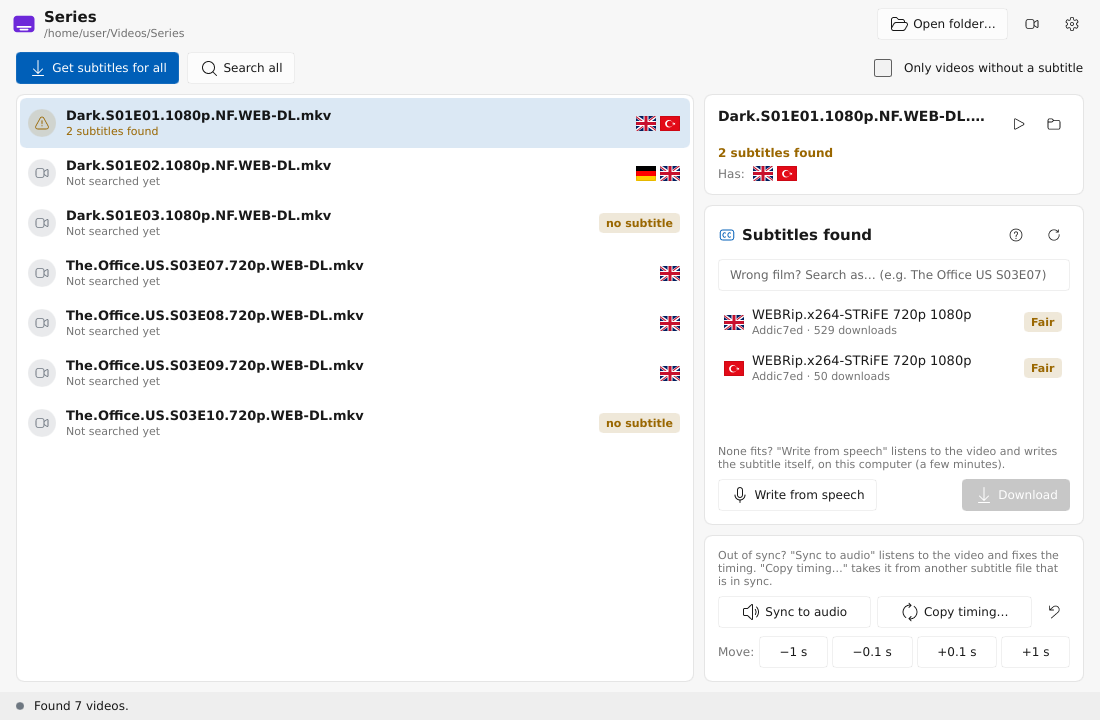
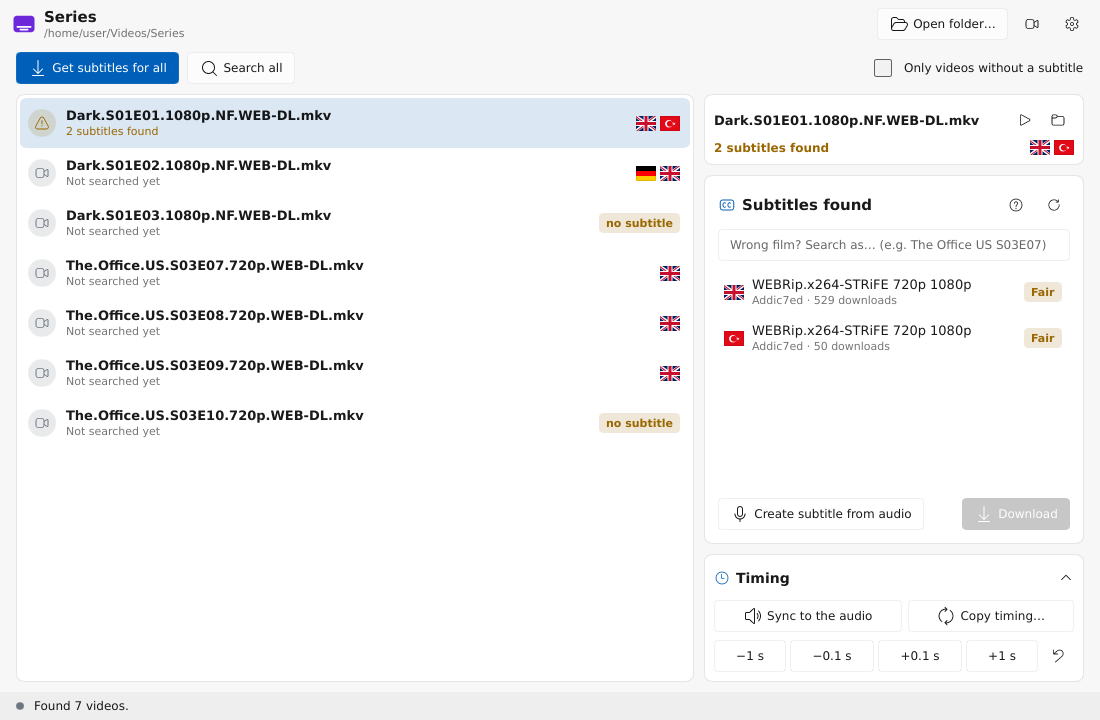
Tooltips on the library buttons, "Create subtitle from audio", foldable Timing card, compact video header

diff --git a/README.tr.md b/README.tr.md
@@ -43,8 +43,8 @@ güncellemeden sonra neyin yeni olduğunu gösterir.
    yapılmış), **Good**, **Fair** ya da **Weak** diye işaretlidir. **Search as…** yanlış
    adlandırılmış bir dosyayı başka bir adla arar.
 3. Altyazı `Film.mkv`'nin yanına `Film.tr.srt` olarak kaydedilir; oynatıcılar kendiliğinden
-   yükler. Hemen sese senkronlanır. Yerine geçtiği dosya saklanır: *Sync to audio*'nun yanındaki
-   geri alma düğmesi onu geri koyar.
+   yükler. Hemen sese senkronlanır. Yerine geçtiği dosya saklanır: *Timing* altındaki geri alma
+   düğmesi onu geri koyar.
 
 ![Senkron](docs/img/sync.png)
 
@@ -53,7 +53,7 @@ Dahası:
 - **Hızlı senkron**: SubMagician önce filmin her yerinden birkaç kısa parçayı aynı anda dinler;
   yanlış kayma ya da kare hızı için bu yeter (bir iki saniye). Sahne kesilmiş ya da eklenmişse
   bütün sesi okur, her işlemci çekirdeğine bir parça. Duyduğunu hatırlar, aynı videoyu yeniden
-  senkronlamak anında olur. *Sync to audio* her altyazıda çalışır; *Copy timing…* senkron olan
+  senkronlamak anında olur. *Sync to the audio* her altyazıda çalışır; *Copy timing…* senkron olan
   başka bir altyazıyı kullanır; ±0,1 s / ±1 s elle kaydırır.
 - **Videonun içindeki altyazılar** (MKV/MP4 parçaları): **Use the subtitle inside** senin
   dilindekini dosya olarak kaydeder ve sese senkronlar. Resim parçaları (Blu-ray, DVD) metin
@@ -62,7 +62,7 @@ Dahası:
   ilerlemesini gösterir, **Stop** hemen bitirir.
 - **Açık klasörü izleme** (Settings → Library): klasöre gelen yeni videolar kopyalanması bitince
   altyazısını kendisi alır. **Only videos without a subtitle** işi biten videoları gizler.
-- **Write from speech** (Whisper, bu bilgisayarda): hiçbir kaynakta altyazı yoksa konuşmadan yazılır.
+- **Create subtitle from audio** (Whisper, bu bilgisayarda): hiçbir kaynakta altyazı yoksa konuşmadan yazılır.
   İlk seferde konuşma modelini indirmeyi önerir; Settings → Speech başka bir model seçer,
   otomatik de çalışabilir. İngilizceye her dilden
   çevirir; diğer diller konuşulduğu gibi yazılır.

diff --git a/README.md b/README.md
@@ -42,8 +42,8 @@ out and shows what is new after the update.
    file), **Good**, **Fair** or **Weak**. **Search as…** finds a wrongly named file under
    another name.
 3. The subtitle is saved as `Movie.tr.srt` next to `Movie.mkv`; players load it on their own.
-   It is synced to the audio right away. The file it replaced is kept: the undo button next to
-   *Sync to audio* puts it back.
+   It is synced to the audio right away. The file it replaced is kept: the undo button under
+   *Timing* puts it back.
 
 ![Sync](docs/img/sync.png)
 
@@ -52,7 +52,7 @@ More:
 - **Fast sync**: SubMagician first listens to a few short parts across the film at once, which
   is enough for a wrong offset or frame rate (a second or two). Only when scenes were cut or
   added does it read the whole audio, one piece per CPU core. What it heard is remembered, so
-  syncing the same video again is instant. *Sync to audio* works on any subtitle; *Copy
+  syncing the same video again is instant. *Sync to the audio* works on any subtitle; *Copy
   timing…* uses another subtitle that is in sync; ±0.1 s / ±1 s nudge it by hand.
 - **Subtitles inside the video** (MKV/MP4 tracks): **Use the subtitle inside** saves the one in
   your language as a file and syncs it to the audio. Picture tracks (Blu-ray, DVD) cannot be
@@ -62,7 +62,7 @@ More:
 - **Watch the open folder** (Settings → Library): new videos in the folder get their subtitle
   on their own, once they have finished copying. **Only videos without a subtitle** hides the
   ones that are done.
-- **Write from speech** (Whisper, on this computer): when no source has a subtitle, one is written from
+- **Create subtitle from audio** (Whisper, on this computer): when no source has a subtitle, one is written from
   the speech. The first time it offers to download the speech model; Settings → Speech picks
   another one, and it can also run automatically.
   Into English it translates any language; other languages are written as spoken.

diff --git a/changelog/en.md b/changelog/en.md
@@ -11,9 +11,10 @@ Release notes, newest first. The app shows the sections since the version that r
   player plugins, subfolders and the folder watch moved there.
 - Subtitle languages are shown as flags, and the found subtitles say how well they fit:
   Exact, Good, Fair or Weak (the ? button explains them).
-- "From audio" is now "Write from speech" and "To a subtitle…" is "Copy timing…", each with a
-  short explanation next to it. Writing from speech asks to download the speech model right
-  there instead of sending you to Settings.
+- Clearer buttons with tooltips: "From audio" is now "Create subtitle from audio", "To a
+  subtitle…" is "Copy timing…". The timing tools fold away under "Timing", so the found
+  subtitles get more room. Creating from audio asks to download the speech model right there
+  instead of sending you to Settings.
 - If a background task crashes, SubMagician says so and offers to report it by GitHub or e-mail.
 - Right-click menu: choose its entries in Settings: open in SubMagician, get subtitles in your
   languages, or sync the subtitle to the audio.

diff --git a/crates/app/ui/icons/README.md b/crates/app/ui/icons/README.md
@@ -9,5 +9,5 @@ info → info, warning → warning, error → error_circle, plug → plug_connec
 update → arrow_circle_up, captions → closed_caption, speaker → speaker_2, clock → clock,
 globe → globe, person → person, logs → document_text, mail → mail, open → open,
 dismiss → dismiss, delete → delete, filter → filter, heart → heart, code → code,
-done → checkmark_circle (filled), back → arrow_left, more → more_horizontal,
-sad → emoji_sad, question → question_circle.
+done → checkmark_circle (filled), back → arrow_left, sad → emoji_sad,
+question → question_circle, chevron-down / chevron-up → chevron_down / chevron_up.

diff --git a/docs/DECISIONS.md b/docs/DECISIONS.md
@@ -179,3 +179,6 @@ Numbered, newest last. Each: what, and why.
 55. **Right-click menu entries are chosen in Settings** (open, get subtitles, sync to audio).
     "Get" and "sync" open the window with the folder or video (`--get` / `--sync`) and start the
     work there, so progress and errors are visible; no hidden background runs.
+56. **Tooltips with Slint's built-in `Tooltip`** (Slint 1.18) on the buttons whose label cannot say
+    everything; labels say what happens ("Create subtitle from audio", "Copy timing…"). Timing
+    tools are folded under one "Timing" line, so the found subtitles get the height.
